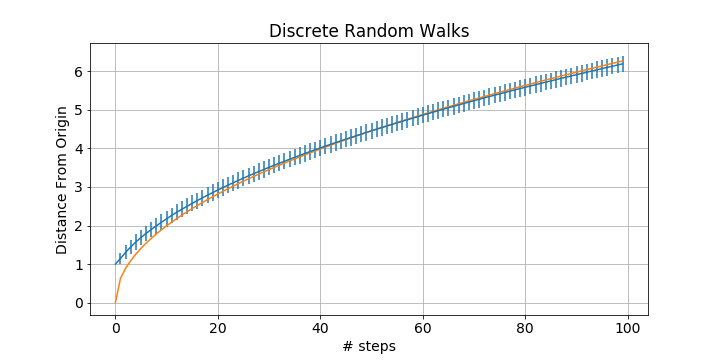
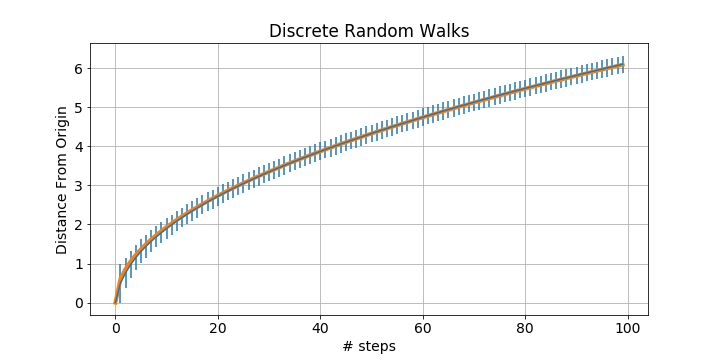
changed file structure

Changed region(s): [[0.0917, 0.1528, 0.8861, 0.8556], [0.0917, 0.4889, 0.1222, 0.55], [0.0917, 0.275, 0.1222, 0.3361]]

diff --git a/esercizio_2/rng/main.cpp b/esercizio_2/rng/main.cpp
@@ -14,7 +14,8 @@ _/    _/  _/_/_/  _/_/_/_/ email: Davide.Galli@unimi.it
 #include <vector>
 
 #include "random.h"
-#include "functions.h"
+#include "statistics.h"
+#include "RandomWalk.h"
 
 using namespace std;
 
@@ -74,10 +75,34 @@ int main (int argc, char *argv[]){
 
    // Cumulative blocked statistics
 
-   string datafile = "./data/stats_2.1.1.dat";
+   string datafile = "../data/stats_2.1.1.dat";
    blocked_stats(ave, av2, N, datafile);
 
-   // 1.1.2 Importance Sampling (and UN-importance sampling?)
+   // 1.1.2 Importance Sampling
+
+   rnd.SetRandom(seed,p1,p2);
+
+   M = 100000; // Rolls
+   N = 100;    // Blocks
+   L = M/N;    // Rolls per block
+
+   fill(ave.begin(), ave.end(), 0);
+   fill(av2.begin(), av2.end(), 0);
+
+   // Integrate
+
+   for (int i = 0; i < N; i++) {
+      for (int j = 0; j < L; j++) {
+         ave[i] += rnd.RanCos(); // Integrand
+      }
+      ave[i] /= L;
+      av2[i] = (ave[i]*ave[i]);
+   }
+
+   // Cumulative blocked statistics
+
+   datafile = "../data/stats_2.1.2.dat";
+   blocked_stats(ave, av2, N, datafile);
 
    // 2.2.1 3D Random Walk on a Cubic Lattice
 
@@ -95,9 +120,11 @@ int main (int argc, char *argv[]){
 
       for (int j = 0; j < n_walks; j++) { // take many walks
 
-         fill(lattice.begin(), lattice.end(), 0); // start at origin
+         lattice[0] = 0; // start at origin
+         lattice[1] = 0;
+         lattice[2] = 0;
 
-         Discrete_Random_Walk(lattice, rnd, i+1); // walk i+1 steps
+         Discrete_Random_Walk(lattice, rnd, i);
 
          ave[i] += Distance_Formula_Lattice(lattice); // calculate distance from origin
       }
@@ -106,7 +133,7 @@ int main (int argc, char *argv[]){
       av2[i] = ave[i] * ave[i];
    }
 
-   datafile = "./data/stats_2.2.1.dat";
+   datafile = "../data/stats_2.2.1.dat";
    blocked_stats(ave, av2, n_steps, datafile);
 
    // 2.2.2
@@ -121,13 +148,15 @@ int main (int argc, char *argv[]){
    fill(ave.begin(), ave.end(), 0);
    fill(av2.begin(), av2.end(), 0);
 
-   for (int i = 0; i < n_steps; i++){ // 100 random walks of steps 1, 2, ... 100
+   for (int i = 0; i < n_steps; i++){ // 100 random walks of steps 0, 1, 2, ... 100
 
       for (int j = 0; j < n_walks; j++) { // take many walks
 
-         fill(position.begin(), position.end(), 0); // start at origin
+         position[0] = 0;   // start at origin
+         position[1] = 0;
+         position[2] = 0;
 
-         Continuous_Random_Walk(position, rnd, i+1); // walk i+1 steps
+         Continuous_Random_Walk(position, rnd, i); 
 
          ave[i] += Distance_Formula(position); // calculate distance from origin
       }
@@ -136,14 +165,12 @@ int main (int argc, char *argv[]){
       av2[i] = ave[i] * ave[i];
    }
 
-   datafile = "./data/stats_2.2.2.dat";
+   datafile = "../data/stats_2.2.2.dat";
    blocked_stats(ave, av2, n_steps, datafile);
 
    rnd.SaveSeed();
    return 0;
 }
-
-
 
 /****************************************************************
 *****************************************************************

diff --git a/esercizio_2/rng/RandomWalk.cpp b/esercizio_2/rng/RandomWalk.cpp
@@ -6,7 +6,7 @@
 using namespace std;
 
 #include "random.h"
-#include "functions.h"
+#include "RandomWalk.h"
 
 void Discrete_Random_Walk(vector<int> & pos, Random & rnd, int N){
 
@@ -69,33 +69,3 @@ double Distance_Formula(vector<double> pos){
    float R = sqrt(pos[0]*pos[0] + pos[1]*pos[1] + pos[2]*pos[2]);
    return R;
 }
-
-void blocked_stats(vector<double>  AV, vector<double>  AV2, int N, string filename){
-   ofstream outfile;
-   outfile.open(filename);
-
-   vector<double> sum(N,0);
-   vector<double> sum2(N,0);
-   vector<double> err(N,0);
-
-   for (int i=0; i<N; i++){
-      for (int j=0; j<(i+1); j++){
-         sum[i] += AV[j]; // cumulative sum of averages
-         sum2[i] += AV2[j]; // sum of square averages
-      }
-      sum[i] /= (i+1); // cumulative average
-      sum2[i] /= (i+1); // cumulative square average
-      err[i] = error(sum, sum2, i); // uncertainty
-      outfile << sum[i] << " " << sum2[i] << " " << err[i] << endl;
-   }
-   outfile.close();
-}
-
-float error(vector<double> AV, vector<double> AV2, int n){
-   if (n == 0){
-      return 0;
-   } else {
-      return sqrt( (AV2[n] - AV[n]*AV[n]) / n);
-   }
-}
-

diff --git a/esercizio_2/rng/statistics.cpp b/esercizio_2/rng/statistics.cpp
@@ -1,0 +1,38 @@
+#include <iostream>
+#include <fstream>
+#include <string>
+#include <vector>
+
+using namespace std;
+
+#include "statistics.h"
+
+void blocked_stats(vector<double>  AV, vector<double>  AV2, int N, string filename){
+   ofstream outfile;
+   outfile.open(filename);
+
+   vector<double> sum(N,0);
+   vector<double> sum2(N,0);
+   vector<double> err(N,0);
+
+   for (int i=0; i<N; i++){
+      for (int j=0; j<(i+1); j++){
+         sum[i] += AV[j]; // cumulative sum of averages
+         sum2[i] += AV2[j]; // sum of square averages
+      }
+      sum[i] /= (i+1); // cumulative average
+      sum2[i] /= (i+1); // cumulative square average
+      err[i] = error(sum, sum2, i); // uncertainty
+      outfile << sum[i] << " " << sum2[i] << " " << err[i] << endl;
+   }
+   outfile.close();
+}
+
+float error(vector<double> AV, vector<double> AV2, int n){
+   if (n == 0){
+      return 0;
+   } else {
+      return sqrt( (AV2[n] - AV[n]*AV[n]) / n);
+   }
+}
+

diff --git a/esercizio_2/rng/RandomWalk.h b/esercizio_2/rng/RandomWalk.h
@@ -1,0 +1,13 @@
+#ifndef __RandomWalk__
+#define __RandomWalk__
+
+using namespace std;
+
+void Discrete_Random_Step(vector<int> &, Random &);
+void Discrete_Random_Walk(vector<int> &, Random &, int);
+void Continuous_Random_Step(vector<double> &, Random &);
+void Continuous_Random_Walk(vector<double> &, Random &, int);
+double Distance_Formula_Lattice(vector<int>);
+double Distance_Formula(vector<double>);
+
+#endif

diff --git a/esercizio_2/rng/random.cpp b/esercizio_2/rng/random.cpp
@@ -50,10 +50,12 @@ int Random :: Six_Sided_Die(){
   return die;
 }
 
+double Random :: RanCos(){
+  return asin (Rannyu()) * (M_PI/2);
+}
+
 double Random :: RanTheta3d(){
-  double r;
-  r = acos ( 1 - 2*Rannyu() );
-  return r;
+  return acos ( 1 - 2*Rannyu() );
 }
 
 double Random :: RanTheta(){

diff --git a/esercizio_2/rng/statistics.h b/esercizio_2/rng/statistics.h
@@ -1,0 +1,9 @@
+#ifndef __statistics__
+#define __statistics__
+
+using namespace std;
+
+void blocked_stats(vector<double>, vector<double>, int, string);
+float error(vector<double>, vector<double>, int);
+
+#endif

diff --git a/esercizio_2/rng/random.h b/esercizio_2/rng/random.h
@@ -35,6 +35,7 @@ public:
   double Exponential(double lambda);
   double RanTheta();
   double RanTheta3d();
+  double RanCos();
 
   double sum_uniform(int, double, double);
   double sum_exponential(int, double);
